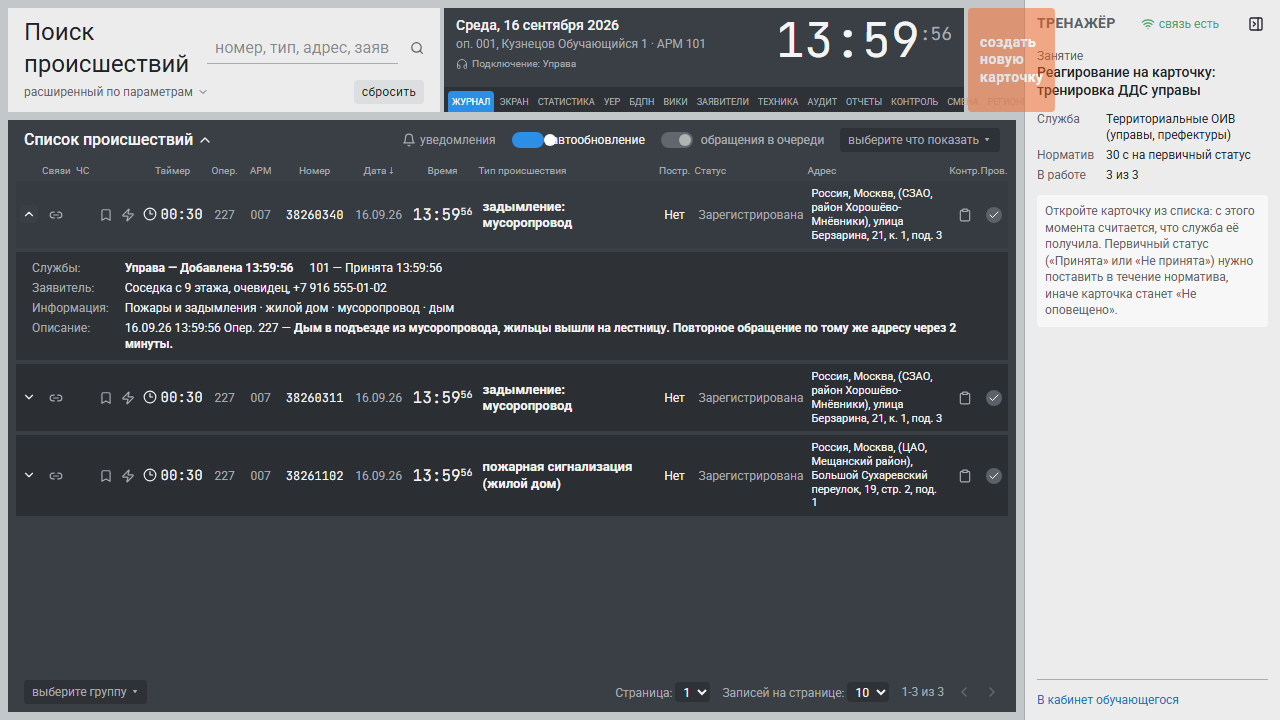
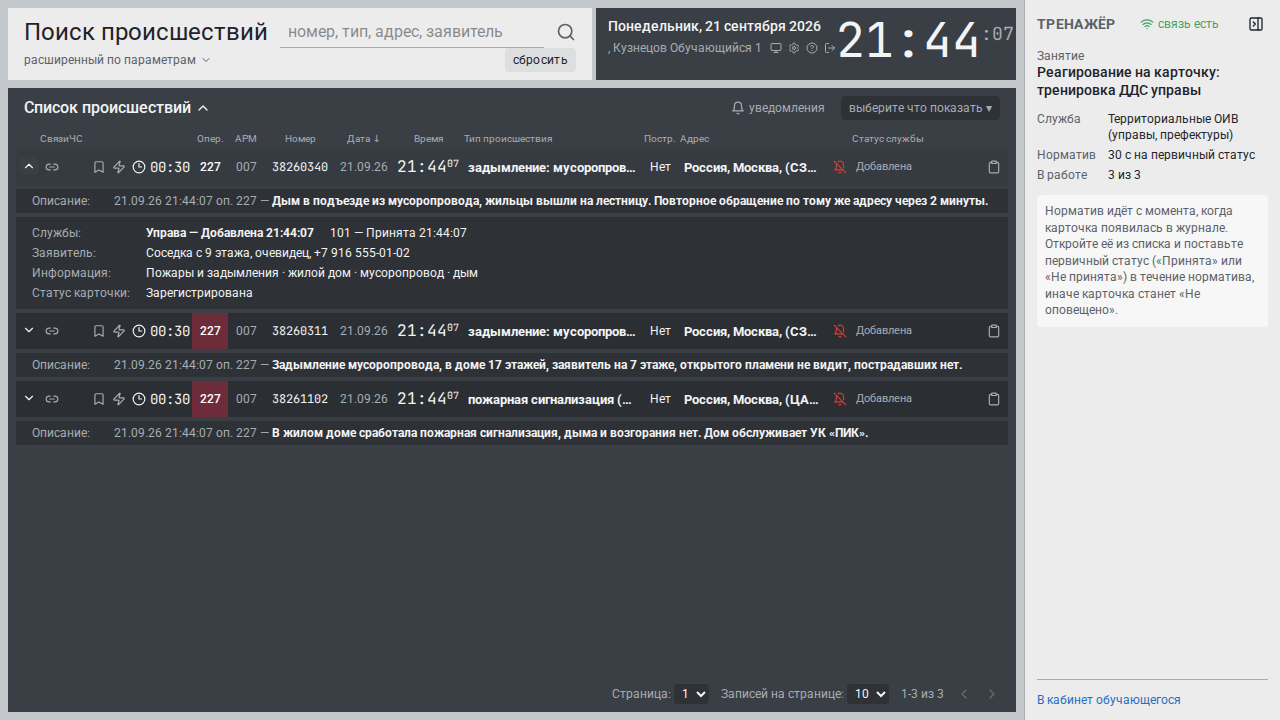
Журнал ДДС как в живой системе: колонки, статус службы, описание под строкой (#77)
* Журнал ДДС как в живой системе: колонки, статус службы, описание под строкой

По скриншотам рабочего места ДДС от 17.09.2026: без вкладок шапки, кнопки «создать»
и тумблеров; колонки … | Адрес | оповещение | Статус службы | карточка вместо
«Статус / Контр. / Пров.»; «Опер.» на тёмно-красном; описание всегда под строкой;
строки однострочные с полным текстом по наведению. Красные статусы контроля
(«Не оповещено», «Отказ») остаются в ячейке статуса службы — ученику нужно видеть
просрочку. Решения и оставшееся расхождение (тип = итоговый тип, не опросная карта)
в docs/DECISIONS.md.

* Скриншоты журнала ДДС после приведения к живой системе

diff --git a/frontend/src/emulator/journal-page.tsx b/frontend/src/emulator/journal-page.tsx
@@ -1,16 +1,19 @@
 import { useQueryClient } from "@tanstack/react-query";
 import {
   Bell,
+  BellOff,
   Bookmark,
-  Check,
   ChevronDown,
   ChevronLeft,
   ChevronRight,
   ChevronUp,
+  CircleHelp,
   Clipboard,
-  Headphones,
   Link2,
+  LogOut,
+  Monitor,
   Search,
+  Settings,
   Zap,
 } from "lucide-react";
 import { useCallback, useMemo, useState } from "react";
@@ -19,15 +22,13 @@ import { Navigate, useNavigate, useParams } from "react-router-dom";
 import { journalKey, useJournal, type JournalItem } from "@/api/training";
 import { ErrorState, LoadingState } from "@/components/states";
 import { clockParts, formatDate, formatLongDate, formatTime, useNow } from "@/emulator/time";
-import { ArmButton, TimerBadge, Toggle, TrainerPanel } from "@/emulator/widgets";
+import { ArmButton, TimerBadge, TrainerPanel } from "@/emulator/widgets";
 import { useSessionEvents } from "@/emulator/ws";
 import { cn } from "@/lib/utils";
 
 const PAGE_SIZES = [10, 20, 50] as const;
 const ACTIVE_STATES = new Set(["issued", "received", "in_progress"]);
-
-// Tabs of the real workstation header (screenshot page 12); only «журнал» works here.
-const HEADER_TABS = ["журнал", "экран", "статистика", "УЕР", "БДПН", "вики", "заявители", "техника", "аудит", "отчеты", "контроль", "смена", "регионы"];
+const COLUMNS = 17;
 
 export function JournalPage() {
   const { sessionId } = useParams<{ sessionId: string }>();
@@ -41,16 +42,14 @@ function Journal({ sessionId }: { sessionId: string }) {
   const [page, setPage] = useState(1);
   const [perPage, setPerPage] = useState<(typeof PAGE_SIZES)[number]>(10);
   const [search, setSearch] = useState("");
-  const [autoRefresh, setAutoRefresh] = useState(true);
-  const [pendingUpdates, setPendingUpdates] = useState(0);
   const [expanded, setExpanded] = useState<Set<string>>(() => new Set());
   const now = useNow();
   const query = useJournal(sessionId, page, perPage);
 
+  // The live workstation refreshes the list by itself; «уведомления» only re-reads it on demand.
   const onEvent = useCallback(() => {
-    if (autoRefresh) void client.invalidateQueries({ queryKey: journalKey(sessionId) });
-    else setPendingUpdates((n) => n + 1);
-  }, [autoRefresh, client, sessionId]);
+    void client.invalidateQueries({ queryKey: journalKey(sessionId) });
+  }, [client, sessionId]);
   const connection = useSessionEvents(sessionId, query.data?.last_seq, onEvent);
 
   const items = useMemo(() => {
@@ -75,7 +74,6 @@ function Journal({ sessionId }: { sessionId: string }) {
   }
 
   function refreshNow() {
-    setPendingUpdates(0);
     void client.invalidateQueries({ queryKey: journalKey(sessionId) });
   }
 
@@ -123,41 +121,24 @@ function Journal({ sessionId }: { sessionId: string }) {
               </ArmButton>
             </div>
           </div>
-          <div className="flex w-[520px] flex-col bg-[var(--arm-dark)] text-[var(--arm-on-dark)]">
-            <div className="flex items-start justify-between px-3 pt-2">
-              <div>
-                <div className="text-sm font-medium">{formatLongDate(now)}</div>
-                <div className="text-xs text-[var(--arm-on-dark-muted)]">
-                  оп. {data.arm.operator_no}, {data.arm.dispatcher} · АРМ {data.arm.arm_no}
-                </div>
-                <div className="mt-1 flex items-center gap-1 text-[10px] text-[var(--arm-on-dark-muted)]">
-                  <Headphones className="size-3" aria-hidden /> Подключение: {data.session.service?.short_title ?? "ДДС"}
-                </div>
-              </div>
-              <div className="flex items-start font-mono leading-none" aria-label="Текущее время">
-                <span className="text-5xl font-medium tabular-nums">{clock.hm}</span>
-                <span className="mt-1 text-lg tabular-nums text-[var(--arm-on-dark-muted)]">:{clock.s}</span>
+          <div className="flex w-[420px] items-start justify-between bg-[var(--arm-dark)] px-3 py-2 text-[var(--arm-on-dark)]">
+            <div>
+              <div className="text-sm font-medium">{formatLongDate(now)}</div>
+              <div className="mt-1 flex items-center gap-2 text-xs text-[var(--arm-on-dark-muted)]">
+                <span className="max-w-56 truncate">, {data.arm.dispatcher}</span>
+                <span className="inline-flex items-center gap-1.5" title={`оп. ${data.arm.operator_no}, АРМ ${data.arm.arm_no}`}>
+                  <Monitor className="size-3" aria-hidden />
+                  <Settings className="size-3" aria-hidden />
+                  <CircleHelp className="size-3" aria-hidden />
+                  <LogOut className="size-3" aria-hidden />
+                </span>
               </div>
             </div>
-            <nav className="mt-auto flex gap-px bg-[var(--arm-dark-2)] px-1 pt-1 text-[9px] uppercase text-[var(--arm-on-dark-muted)]" aria-label="Разделы АРМ">
-              {HEADER_TABS.map((tab) => (
-                <span
-                  key={tab}
-                  className={cn("flex-1 rounded-t-sm px-1 py-1 text-center", tab === "журнал" && "bg-[var(--arm-blue)] text-white")}
-                >
-                  {tab}
-                </span>
-              ))}
-            </nav>
+            <div className="flex items-start font-mono leading-none" aria-label="Текущее время">
+              <span className="text-5xl font-medium tabular-nums">{clock.hm}</span>
+              <span className="mt-1 text-lg tabular-nums text-[var(--arm-on-dark-muted)]">:{clock.s}</span>
+            </div>
           </div>
-          <ArmButton
-            variant="orange"
-            className="h-auto w-32 flex-col items-start whitespace-normal px-3 py-2 text-left text-sm leading-tight normal-case"
-            disabled
-            title="В режиме ДДС карточки создаёт оператор 112"
-          >
-            создать новую карточку
-          </ArmButton>
         </header>
 
         {/* Incident list. */}
@@ -174,25 +155,20 @@ function Journal({ sessionId }: { sessionId: string }) {
                 title="Обновить список"
               >
                 <Bell className="size-3.5" aria-hidden /> уведомления
-                {pendingUpdates > 0 && (
-                  <span className="rounded-full bg-[var(--arm-orange)] px-1.5 text-[10px] text-white">{pendingUpdates}</span>
-                )}
               </button>
-              <Toggle checked={autoRefresh} onChange={(v) => { setAutoRefresh(v); if (v) refreshNow(); }} label="автообновление" />
-              <Toggle checked={false} onChange={() => undefined} label="обращения в очереди" disabled />
               <span className="rounded-sm bg-[var(--arm-dark-2)] px-2 py-1 text-[var(--arm-on-dark-muted)]">выберите что показать ▾</span>
             </div>
           </div>
 
-          <table className="w-full border-separate border-spacing-y-1 px-2 text-xs">
+          <table className="w-full table-fixed border-separate border-spacing-y-1 px-2 text-xs">
             <thead className="text-[10px] text-[var(--arm-on-dark-muted)]">
               <tr>
                 <th className="w-6" aria-label="Раскрыть" />
-                <th className="w-6 font-normal">Связи</th>
-                <th className="w-6 font-normal">ЧС</th>
+                <th className="w-9 font-normal">Связи</th>
+                <th className="w-7 font-normal">ЧС</th>
                 <th className="w-5" aria-label="Закрепить" />
                 <th className="w-5" aria-label="Важное" />
-                <th className="w-16 font-normal">Таймер</th>
+                <th className="w-16" aria-label="Таймер" />
                 <th className="w-9 font-normal">Опер.</th>
                 <th className="w-9 font-normal">АРМ</th>
                 <th className="w-[4.5rem] font-normal">Номер</th>
@@ -200,16 +176,16 @@ function Journal({ sessionId }: { sessionId: string }) {
                 <th className="w-[4.5rem] font-normal">Время</th>
                 <th className="w-44 text-left font-normal">Тип происшествия</th>
                 <th className="w-10 font-normal">Постр.</th>
-                <th className="w-24 text-left font-normal">Статус</th>
                 <th className="text-left font-normal">Адрес</th>
-                <th className="w-7 font-normal">Контр.</th>
-                <th className="w-7 font-normal">Пров.</th>
+                <th className="w-6" aria-label="Оповещение" />
+                <th className="w-32 text-left font-normal">Статус службы</th>
+                <th className="w-7" aria-label="Карточка" />
               </tr>
             </thead>
             <tbody>
               {items.length === 0 && (
                 <tr>
-                  <td colSpan={17} className="bg-[var(--arm-row)] px-4 py-6 text-center text-sm text-[var(--arm-on-dark-muted)]">
+                  <td colSpan={COLUMNS} className="bg-[var(--arm-row)] px-4 py-6 text-center text-sm text-[var(--arm-on-dark-muted)]">
                     {search
                       ? "По запросу ничего не найдено. Измените условия поиска или нажмите «сбросить»."
                       : data.session.status === "running"
@@ -233,8 +209,7 @@ function Journal({ sessionId }: { sessionId: string }) {
             </tbody>
           </table>
 
-          <div className="mt-auto flex items-center justify-between px-4 py-2 text-xs text-[var(--arm-on-dark-muted)]">
-            <span className="rounded-sm bg-[var(--arm-dark-2)] px-2 py-1">выберите группу ▾</span>
+          <div className="mt-auto flex items-center justify-end px-4 py-2 text-xs text-[var(--arm-on-dark-muted)]">
             <div className="flex items-center gap-3">
               <span>
                 Страница:{" "}
@@ -328,6 +303,10 @@ function JournalRow({
 }) {
   const active = ACTIVE_STATES.has(item.state);
   const cell = "bg-[var(--arm-row)] px-1 py-1.5 align-middle";
+  const own = item.services.find((s) => s.is_own);
+  // The dispatcher's own reaction status, as on the live АРМ-112. A card the controller
+  // sees in red («Не оповещено», «Отказ», «Не завершено») shows that word instead.
+  const serviceStatus = item.card_status_alert ? item.card_status_title : (own?.status_title ?? "Добавлена");
   return (
     <>
       <tr
@@ -363,7 +342,7 @@ function JournalRow({
         <td className={cn(cell, "text-center")}>
           <TimerBadge issuedAt={item.issued_at} primaryStatusAt={item.primary_status_at} normSeconds={item.norm_seconds} now={now} active={active} />
         </td>
-        <td className={cn(cell, "text-center text-[var(--arm-on-dark-muted)]")}>{item.operator_no}</td>
+        <td className={cn(cell, "bg-[var(--arm-maroon)] text-center font-medium text-white")}>{item.operator_no}</td>
         <td className={cn(cell, "text-center text-[var(--arm-on-dark-muted)]")}>{item.arm_no}</td>
         <td className={cn(cell, "text-center font-mono")}>{item.card_number}</td>
         <td className={cn(cell, "text-center text-[var(--arm-on-dark-muted)]")}>{formatDate(item.issued_at)}</td>
@@ -371,22 +350,31 @@ function JournalRow({
           {formatTime(item.issued_at, false)}
           <sup className="text-[10px] font-normal">{formatTime(item.issued_at).slice(-2)}</sup>
         </td>
-        <td className={cn(cell, "text-[13px] leading-tight font-semibold")}>{item.incident_title || "—"}</td>
+        <td className={cn(cell, "truncate text-[13px] font-semibold")} title={item.incident_title}>{item.incident_title || "—"}</td>
         <td className={cn(cell, "text-center")}>{item.injured ? "Да" : "Нет"}</td>
-        <td className={cn(cell, item.card_status_alert ? "font-semibold text-[var(--arm-red)]" : "text-[var(--arm-on-dark-muted)]")}>
-          {item.card_status_title}
+        <td className={cn(cell, "truncate text-[13px] font-semibold")} title={item.address}>{item.address}</td>
+        <td className={cn(cell, "text-center")}><BellOff className="mx-auto size-3.5 text-[var(--arm-red)]" aria-hidden /></td>
+        <td
+          className={cn(cell, "truncate text-[11px]", item.card_status_alert ? "bg-[var(--arm-red)] font-semibold text-white" : "text-[var(--arm-on-dark-muted)]")}
+          title={`Статус карточки: ${item.card_status_title}`}
+        >
+          {serviceStatus}
         </td>
-        <td className={cn(cell, "text-[11px] leading-tight text-[var(--arm-on-dark)]")}>{item.address}</td>
         <td className={cn(cell, "text-center")}><Clipboard className="mx-auto size-3.5 text-[var(--arm-on-dark-muted)]" aria-hidden /></td>
-        <td className={cn(cell, "text-center")}>
-          <span className={cn("mx-auto flex size-4 items-center justify-center rounded-full", item.state === "finished" ? "bg-[var(--arm-green)]" : "bg-[#5b6168]")}>
-            <Check className="size-3 text-white" aria-hidden />
+      </tr>
+      {/* The description line is always visible under the row, as on the live workstation. */}
+      <tr>
+        <td colSpan={COLUMNS} className="bg-[var(--arm-dark-2)] px-4 py-1 text-xs text-[var(--arm-on-dark)]">
+          <span className="text-[var(--arm-on-dark-muted)]">Описание:</span>
+          <span className="ml-6 text-[var(--arm-on-dark-muted)]">
+            {formatDate(item.issued_at)} {formatTime(item.issued_at)} оп. {item.operator_no} —{" "}
           </span>
+          <span className="font-semibold">{item.description || "—"}</span>
         </td>
       </tr>
       {expanded && (
         <tr>
-          <td colSpan={17} className="bg-[var(--arm-dark-2)] px-4 py-2 text-xs text-[var(--arm-on-dark)]">
+          <td colSpan={COLUMNS} className="bg-[var(--arm-dark-2)] px-4 py-2 text-xs text-[var(--arm-on-dark)]">
             <div className="grid grid-cols-[auto_1fr] gap-x-4 gap-y-1">
               <span className="text-[var(--arm-on-dark-muted)]">Службы:</span>
               <span className="flex flex-wrap gap-x-4">
@@ -405,11 +393,8 @@ function JournalRow({
               </span>
               <span className="text-[var(--arm-on-dark-muted)]">Информация:</span>
               <span>{[item.incident_group, ...item.signs].filter(Boolean).join(" · ") || "—"}</span>
-              <span className="text-[var(--arm-on-dark-muted)]">Описание:</span>
-              <span>
-                {formatDate(item.issued_at)} {formatTime(item.issued_at)} Опер. {item.operator_no} —{" "}
-                <span className="font-semibold">{item.description}</span>
-              </span>
+              <span className="text-[var(--arm-on-dark-muted)]">Статус карточки:</span>
+              <span className={cn(item.card_status_alert && "font-semibold text-[var(--arm-red)]")}>{item.card_status_title}</span>
             </div>
           </td>
         </tr>

diff --git a/frontend/src/index.css b/frontend/src/index.css
@@ -141,6 +141,7 @@
   --arm-blue: #2d8ee8;
   --arm-blue-dark: #1f6fbf;
   --arm-red: #e03a2f;
+  --arm-maroon: #6e2c3b;
   --arm-warning: #f0b429;
   --arm-green: #3fa35f;
   font-family: var(--font-emulator);

diff --git a/docs/DECISIONS.md b/docs/DECISIONS.md
@@ -696,3 +696,27 @@
   делает Vapi (`recordingEnabled`), файл скачивается в `storage/recordings/web-*.wav`.
 - Голоса по полу и возрасту — пять настроек `CLOUD_VOICE_VOICE_ID_*` вместо
   идентификаторов в коде (как в плане отца); эмоция — `stability` ElevenLabs по персоне.
+## Журнал ДДС как в живой системе (22.09.2026)
+
+Источник — 20 скриншотов рабочего места ДДС от 17.09.2026 (`data/organizers/СКРИНШОТ_ДДС.docx`),
+не памятка: эксперты заказчика работают именно в этой системе.
+
+- У диспетчера ДДС нет вкладок шапки («экран», «статистика», «УЕР»…) и кнопки «создать новую
+  карточку» — это вид оператора 112 и контролёра (памятка, стр. 12). В шапке дата, фамилия,
+  четыре служебных значка и часы. Тумблеров «автообновление» и «обращения в очереди» тоже нет:
+  список обновляется сам по событиям занятия, «уведомления» перечитывают его по клику.
+- Колонки: `Связи | ЧС | закрепить | важное | таймер | Опер. | АРМ | Номер | Дата | Время |
+  Тип происшествия | Постр. | Адрес | оповещение | Статус службы | карточка`. Колонок «Статус»
+  (карточки), «Контр.» и «Пров.» у ДДС нет. «Опер.» на тёмно-красном, как в живой системе.
+- «Статус службы» — статус реагирования своей службы («Добавлена», «Принята», «Работы
+  завершены»). Исключение для обучения: когда карточка ушла в красный статус контроля
+  («Не оповещено», «Отказ», «Не завершено»), ячейка красная и показывает его — в живой системе
+  это видит контролёр и звонит в службу, у нас звонить некому, а ученик должен увидеть
+  просрочку сразу. Полный статус карточки — по наведению и в раскрытой строке.
+- Описание карточки видно всегда под строкой («Описание: дата время оп. N — текст»), как в
+  живом журнале, а не только в раскрытой строке.
+- Строки однострочные: тип и адрес обрезаются с полным текстом по наведению (на 1280 px с
+  панелью тренажёра иначе строка растёт до четырёх строк).
+- Осталось расхождение: в живом журнале «Тип происшествия» — название опросной карты («101»,
+  «ДТП»), у нас итоговый тип классификатора («задымление: мусоропровод»). Опросных карт как
+  сущности у нас нет (см. LIMITATIONS), поэтому оставлен итоговый тип.
